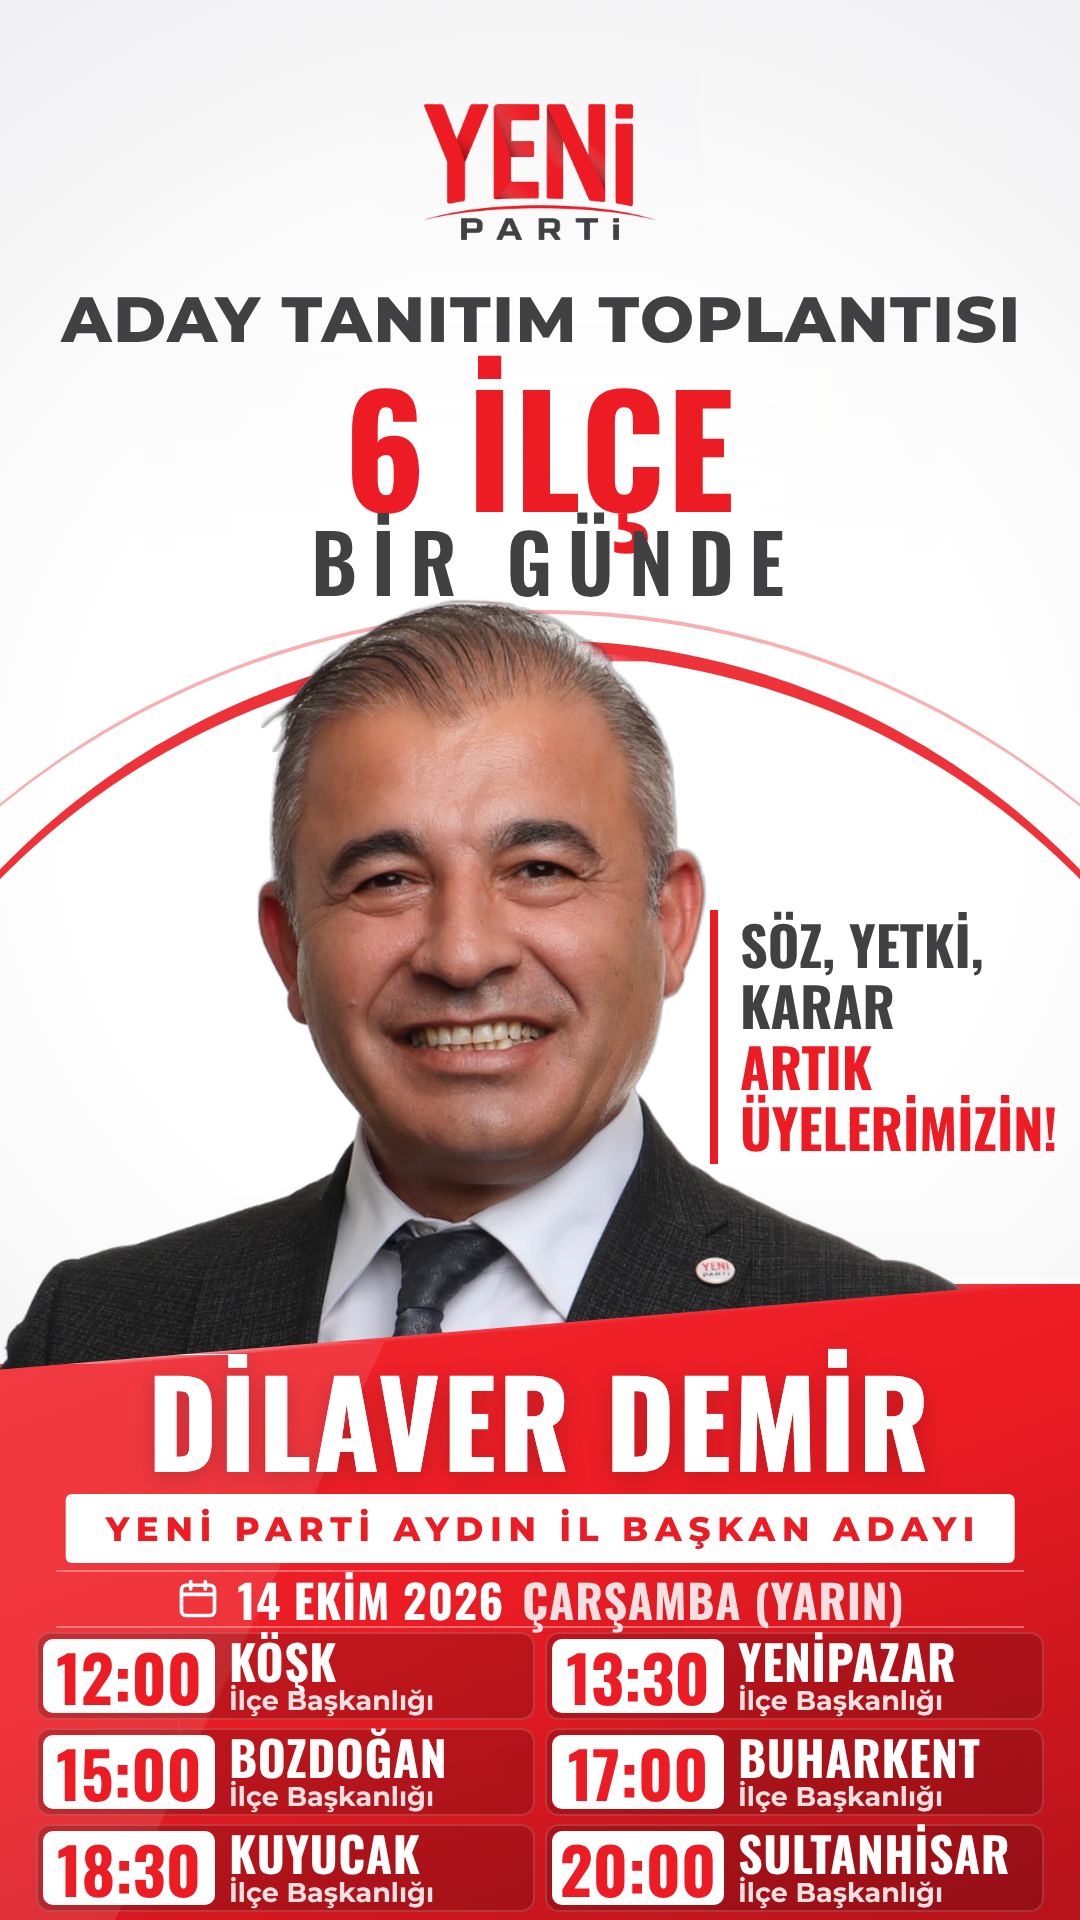
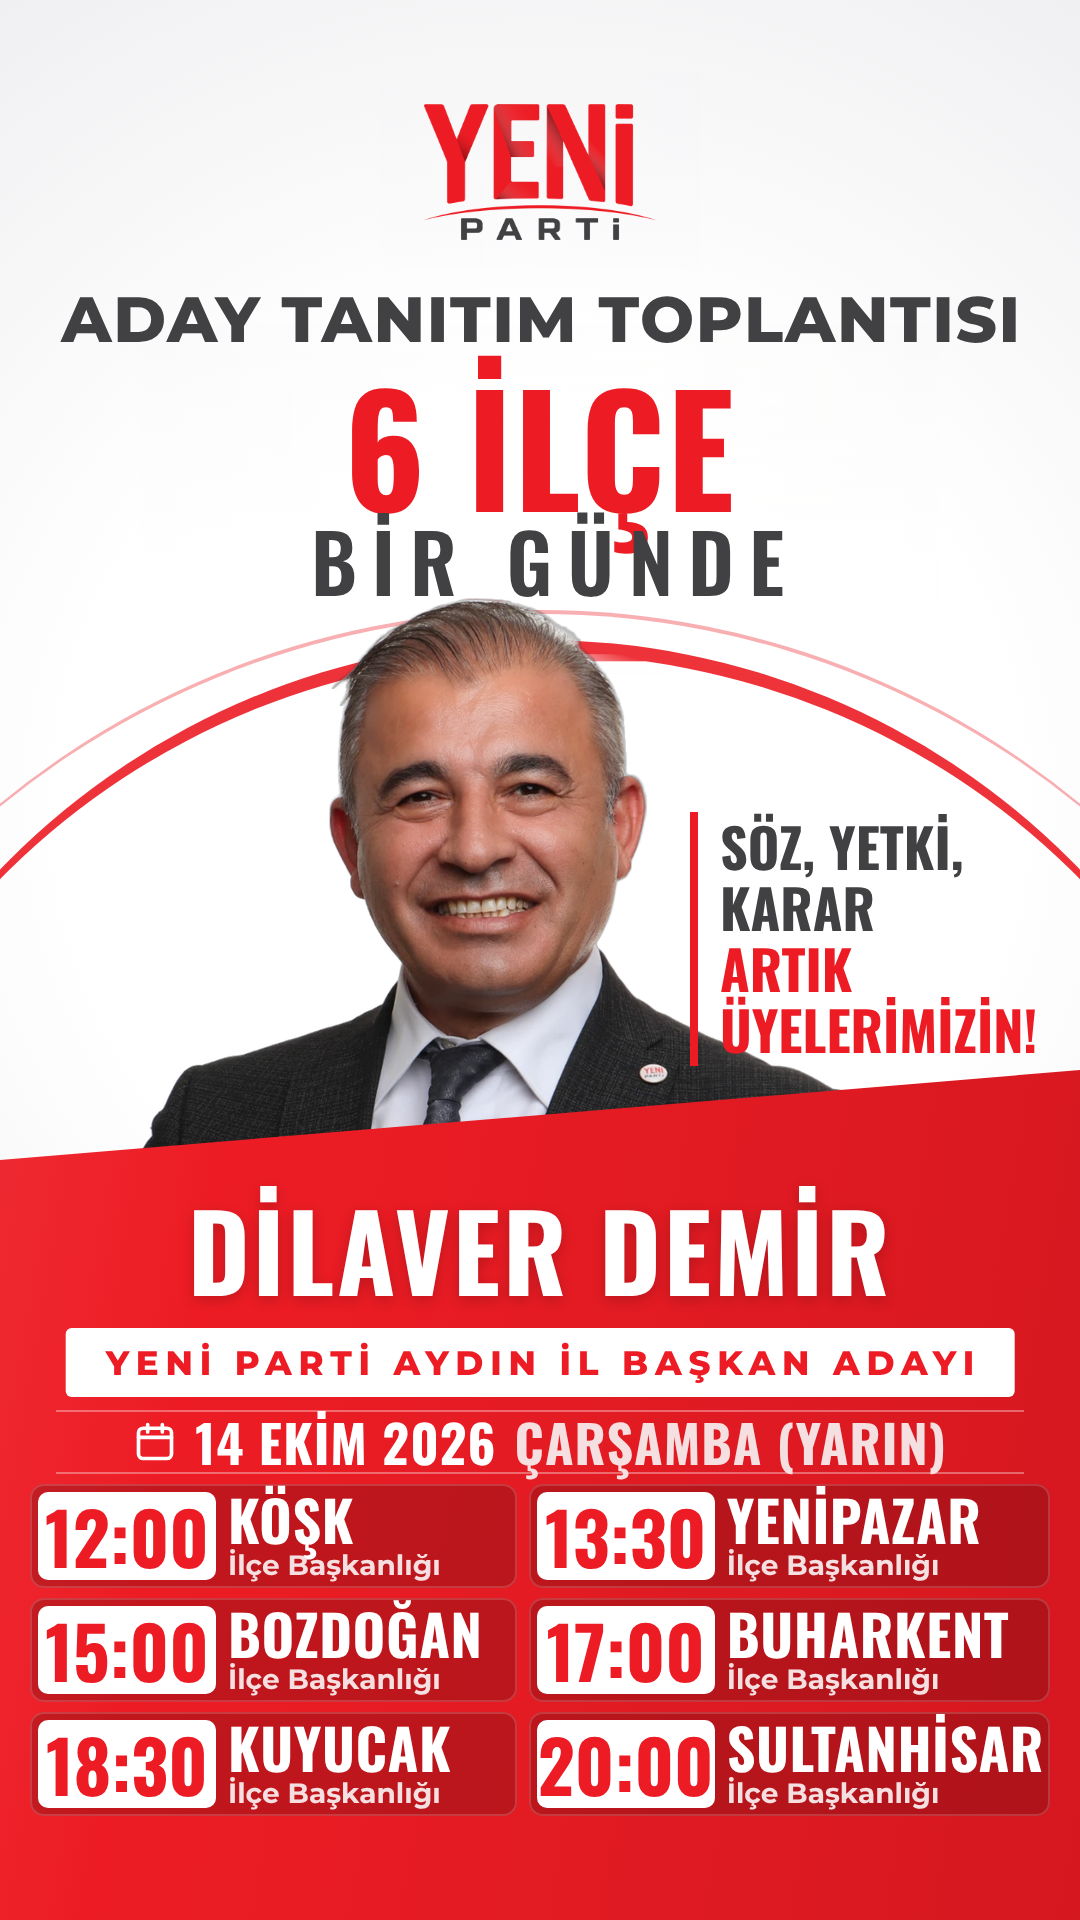
6 ilçe programı: küçük portre, büyük saat/ilçe, gönderi altında boşluk
Claude-Session: https://claude.ai/code/session_01SatttGbgBLoCnk9KGLypWv

diff --git a/tasarim/kisisel/incirliova-orgut/alti-ilce-v2.html b/tasarim/kisisel/incirliova-orgut/alti-ilce-v2.html
@@ -1,0 +1,91 @@
+<!doctype html><html lang="tr"><meta charset="utf-8">
+<style>
+@font-face{font-family:O7;src:url(../../fontlar-gecici/Oswald-700.ttf)}
+@font-face{font-family:O6;src:url(../../fontlar-gecici/Oswald-600.ttf)}
+@font-face{font-family:M8;src:url(../../fontlar-gecici/Montserrat-800.ttf)}
+@font-face{font-family:M7;src:url(../../fontlar-gecici/Montserrat-700.ttf)}
+:root{--koyu:#414042;--kirmizi:#ED1C24;--etiket:#F6DFE0}
+html,body{margin:0;width:1080px;height:1920px;overflow:hidden}
+body{position:relative;background:url(zemin-kucuk.png) 0 0/1080px 1920px no-repeat}
+.m{position:absolute;left:0;width:1080px;text-align:center;white-space:nowrap;line-height:1}
+
+/* Kuşadası şablonundan ölçülen değerler */
+.ust{top:var(--t1);font:64px M8;letter-spacing:.025em;padding-left:.025em;color:var(--koyu)}
+.sehir{top:var(--t2);font:var(--sehir-boy,150.6px) O7;letter-spacing:1.6px;color:var(--kirmizi)}
+.program{top:var(--t3);font:80.2px O6;letter-spacing:.186em;padding-left:.186em;color:var(--koyu)}
+
+.hap{position:absolute;z-index:2;left:50%;top:1328px;height:69px;transform:translateX(-50%);
+  background:#fff;border-radius:6px;display:flex;align-items:center;padding:0 40px;
+  font:var(--hap-boy,34px) M8;letter-spacing:var(--hap-ls,.2em);color:var(--kirmizi);white-space:nowrap}
+.hap span{margin-right:calc(-1*var(--hap-ls,.2em))}
+
+.kutu{position:absolute;box-sizing:border-box;border-radius:16px;
+  background:rgba(0,0,0,.18);box-shadow:inset 0 0 0 2px rgba(255,255,255,.16);
+  display:flex;align-items:center;gap:25px;padding-left:31px;color:#fff}
+.kutu svg{flex:none;width:62px;height:62px}
+.kutu small{display:block;font:26px M7;letter-spacing:.114em;color:var(--etiket);margin-bottom:8px}
+.kutu b{font:68px/1 O7;font-weight:normal}
+.kutu .gun{font:46px O7;letter-spacing:.02em;color:#fff;margin-left:14px}
+.kutu b.yer{display:block;font-size:var(--yer-boy,60px);line-height:1.14;white-space:nowrap}
+.kutu .sol{display:flex;flex-direction:column;align-items:center;gap:6px;flex:none}
+.kutu .sol small{margin:0}
+.slogan{position:absolute;left:var(--slogan-sol,690px);top:var(--slogan-ust,812px);
+  border-left:8px solid var(--kirmizi);padding:4px 0 6px 22px;white-space:nowrap;
+  font:54px/1.13 O7;letter-spacing:0;color:var(--koyu)}
+.slogan em{display:block;font-style:normal;color:var(--kirmizi)}
+.sehir .ve{color:var(--koyu);font-size:.62em;vertical-align:.16em;margin:0 .06em}
+.tarih-bant{position:absolute;z-index:2;left:56px;right:56px;top:1410px;height:60px;display:flex;align-items:center;justify-content:center;gap:18px;
+  color:#fff;border-top:2px solid rgba(255,255,255,.35);border-bottom:2px solid rgba(255,255,255,.35)}
+.tarih-bant svg{width:44px;height:44px}
+.tarih-bant b{font:52px/1 O7;font-weight:normal;letter-spacing:.02em}
+.tarih-bant span{font:52px/1 O7;letter-spacing:.02em;color:var(--etiket)}
+.durak{position:absolute;left:40px;right:40px;height:122px;display:flex;align-items:center;gap:20px;
+  background:rgba(0,0,0,.18);box-shadow:inset 0 0 0 2px rgba(255,255,255,.16);border-radius:16px;padding:0 24px 0 10px;box-sizing:border-box;color:#fff}
+.durak .saat{flex:none;width:232px;height:106px;background:#fff;border-radius:10px;color:var(--kirmizi);
+  display:flex;flex-direction:column;align-items:center;justify-content:center;font:80px/1 O7}
+.durak .saat small{font:17px/1 M8;letter-spacing:.2em;color:var(--koyu);margin-bottom:3px}
+.durak .bilgi{display:flex;flex-direction:column;justify-content:center;min-width:0}
+.durak .bilgi b{font:54px/1 O7;font-weight:normal;letter-spacing:.02em}
+.durak .bilgi span{font:33px/1.12 M7;margin-top:4px;white-space:nowrap}
+.durak .bilgi i{font:22px/1.15 M7;font-style:normal;color:var(--etiket);white-space:nowrap}
+.ust-logo{position:absolute;left:50%;top:104px;width:232px;transform:translateX(-50%)}
+.izgara{position:absolute;z-index:2;left:30px;right:30px;top:1484px;display:grid;grid-template-columns:1fr 1fr;gap:10px 12px}
+.kart{height:104px;display:flex;align-items:center;gap:12px;padding:0 6px 0 8px;box-sizing:border-box;border-radius:14px;
+  background:rgba(0,0,0,.18);box-shadow:inset 0 0 0 2px rgba(255,255,255,.16);color:#fff}
+.kart .saat{flex:none;width:178px;height:88px;border-radius:10px;background:#fff;color:var(--kirmizi);
+  display:flex;align-items:center;justify-content:center;font:72px/1 O7}
+.kart .yer{display:flex;flex-direction:column;min-width:0}
+.kart b{font:56px/1 O7;font-weight:normal;letter-spacing:.01em;white-space:nowrap}
+.kart span{font:28px/1.05 M7;margin-top:4px;white-space:nowrap;color:var(--etiket)}
+.panel{position:absolute;z-index:1;left:0;right:0;top:0;bottom:0;
+  background:linear-gradient(100deg,#EF343C 0%,#ED1C24 30%,#E31B23 60%,#D5171F 100%);
+  clip-path:polygon(0 1160px,1080px 1070px,1080px 1920px,0 1920px)}
+.isim{z-index:2;top:1170px;font:106px O7;letter-spacing:2.7px;color:#fff;text-shadow:0 4px 14px rgba(0,0,0,.18)}
+</style>
+<body style="--t1:var(--T1,280px);--t2:var(--T2,332px);--t3:var(--T3,500px)">
+
+<img class="ust-logo" src="yp-logo-kirpik.png">
+<div class="m ust">ADAY TANITIM TOPLANTISI</div>
+<div class="m sehir">6 İLÇE</div>
+<div class="m program">BİR GÜNDE</div>
+
+<div class="slogan">SÖZ, YETKİ,<br>KARAR<em>ARTIK<br>ÜYELERİMİZİN!</em></div>
+
+<div class="panel"></div>
+<div class="m isim">DİLAVER DEMİR</div>
+<div class="hap"><span>YENİ PARTİ AYDIN İL BAŞKAN ADAYI</span></div>
+
+<div class="tarih-bant">
+  <svg viewBox="0 0 24 24" fill="none" stroke="#fff" stroke-width="2" stroke-linecap="round" stroke-linejoin="round">
+    <rect x="3" y="4.5" width="18" height="16.5" rx="2.5"/><path d="M3 9.5h18M8 2.5v4M16 2.5v4"/></svg>
+  <b>14 EKİM 2026</b><span>ÇARŞAMBA (YARIN)</span>
+</div>
+<div class="izgara">
+  <div class="kart"><div class="saat">12:00</div><div class="yer"><b>KÖŞK</b><span>İlçe Başkanlığı</span></div></div>
+  <div class="kart"><div class="saat">13:30</div><div class="yer"><b>YENİPAZAR</b><span>İlçe Başkanlığı</span></div></div>
+  <div class="kart"><div class="saat">15:00</div><div class="yer"><b>BOZDOĞAN</b><span>İlçe Başkanlığı</span></div></div>
+  <div class="kart"><div class="saat">17:00</div><div class="yer"><b>BUHARKENT</b><span>İlçe Başkanlığı</span></div></div>
+  <div class="kart"><div class="saat">18:30</div><div class="yer"><b>KUYUCAK</b><span>İlçe Başkanlığı</span></div></div>
+  <div class="kart"><div class="saat">20:00</div><div class="yer"><b>SULTANHİSAR</b><span>İlçe Başkanlığı</span></div></div>
+</div>
+</body></html>

diff --git a/tasarim/kisisel/incirliova-orgut/buyut2.py b/tasarim/kisisel/incirliova-orgut/buyut2.py
@@ -1,0 +1,26 @@
+# Kişiyi %20 büyütüp kırmızı kenarın arkasına yerleştirir: zemin.png -> zemin-buyuk.png
+from PIL import Image, ImageFilter
+import numpy as np
+Z=Image.open("zemin.png").convert("RGB"); W,H=Z.size
+cut=Image.open("kisi-kesik-buyuk.png").convert("RGBA"); OY=560
+edge=lambda x:1370-(90/1079)*x
+a=np.asarray(cut.split()[3]).astype(float)/255
+yy,xx=np.mgrid[0:a.shape[0],0:a.shape[1]]
+a=a*np.clip(edge(xx)-(yy+OY)-0.5,0,1)
+z=np.asarray(Z).astype(float)
+m=np.asarray(Image.fromarray((a>0.04).astype("uint8")*255).filter(ImageFilter.MaxFilter(9)))>0
+for y in range(m.shape[0]):
+  row=m[y]
+  if not row.any(): continue
+  Y=y+OY; xs=np.nonzero(~row)[0]
+  for ch in range(3):
+    z[Y,:,ch]=np.where(row,np.interp(np.arange(W),xs,z[Y,xs,ch]),z[Y,:,ch])
+s=float(__import__("os").environ.get("S","1.2")); ax_old,ay_old=540,655; ax_new,ay_new=int(__import__("os").environ.get("AX","428")),int(__import__("os").environ.get("AY","602"))
+big=cut.resize((int(cut.width*s),int(cut.height*s)),Image.LANCZOS)
+px=int(round(ax_new-s*ax_old)); py=int(round(ay_new-s*(ay_old-OY)))
+lay=Image.new("RGBA",(W,H),(0,0,0,0)); lay.paste(big,(px,py))
+la=np.asarray(lay).astype(float)
+YY,XX=np.mgrid[0:H,0:W]
+al=la[...,3]/255*np.clip(edge(XX)-YY-0.5,0,1)
+out=z*(1-al[...,None])+la[...,:3]*al[...,None]
+Image.fromarray(out.clip(0,255).astype("uint8")).save(__import__("os").environ.get("OUT","zemin-buyuk.png"))

diff --git a/tasarim/kisisel/incirliova-orgut/post-yap.py b/tasarim/kisisel/incirliova-orgut/post-yap.py
@@ -4,13 +4,15 @@ import sys
 from PIL import Image, ImageDraw
 import numpy as np
 src, out = sys.argv[1], sys.argv[2]
+import os
+K=float(os.environ.get('KAYMA','0'))
 S=0.75; OX=135; W,H=1080,1440
 st=Image.open(src).convert("RGB").resize((810,1440),Image.LANCZOS)
 s=np.asarray(st).astype(float)
 c=np.zeros((H,W,3)); c[:,OX:OX+810]=s
 slope=90/1079
-def kenar_sol(x): return 1370*S+slope*(OX-x)
-def kenar_sag(x): return 1280*S-slope*(x-(OX+810))
+def kenar_sol(x): return (1370-K)*S+slope*(OX-x)
+def kenar_sag(x): return (1280-K)*S-slope*(x-(OX+810))
 # beyaz zemin: kenar sütunundaki yay piksellerini satırlar arası doldur
 def zemin_sutun(col):
   v=col.copy(); kirli=(v[:,0]-v[:,1]>12)
@@ -22,14 +24,14 @@ for x in range(0,OX):
   e=kenar_sol(x)
   for y in range(H):
     t=np.clip(y-e+0.5,0,1)
-    kir=s[max(y,int(1370*S)+2),0]
-    c[y,x]=solB[min(y,int(1370*S)-2)]*(1-t)+kir*t
+    kir=s[max(y,int((1370-K)*S)+2),0]
+    c[y,x]=solB[min(y,int((1370-K)*S)-2)]*(1-t)+kir*t
 for x in range(OX+810,W):
   e=kenar_sag(x)
   for y in range(H):
     t=np.clip(y-e+0.5,0,1)
-    kir=s[max(y,int(1280*S)+2),809]
-    c[y,x]=sagB[min(y,int(1280*S)-2)]*(1-t)+kir*t
+    kir=s[max(y,int((1280-K)*S)+2),809]
+    c[y,x]=sagB[min(y,int((1280-K)*S)-2)]*(1-t)+kir*t
 img=Image.fromarray(np.clip(c,0,255).astype("uint8"))
 # yaylar: hikâyedeki uç noktalardan aynı eğrilik ve incelme ile dışa uzatılır
 import math
